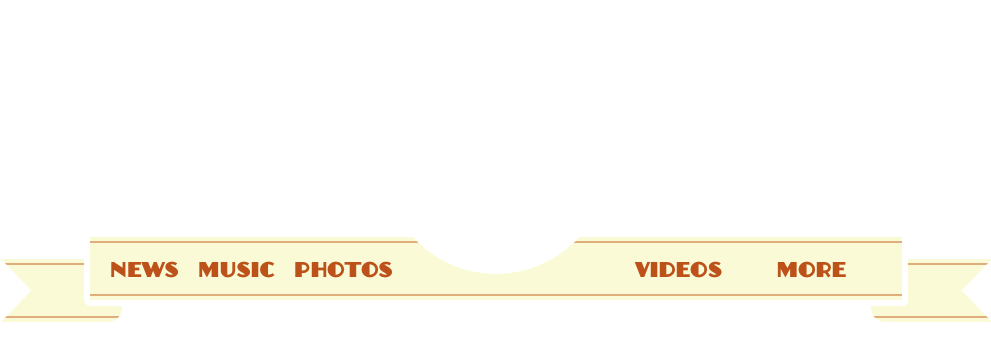
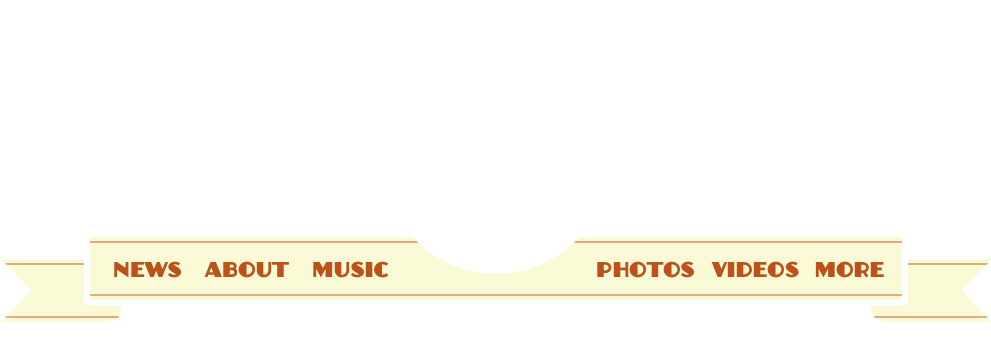
Added about page, tried to fix footer problem for the millionth time, added new menu, and enhanced album view design

Changed region(s): [[0.6054, 0.7107, 0.9082, 0.8034], [0.0908, 0.7107, 0.3935, 0.8034]]

diff --git a/index_resources/main.css b/index_resources/main.css
@@ -55,7 +55,7 @@
 
 /*Main part of menu - the "title"*/
 
-	#Title{
+	#Title {
 		display: block;
 		left: calc(50% - 495.5px);
 		width: 991px;
@@ -67,6 +67,19 @@
 		left: calc(50vw - 319.5px);
 		width: 639px;
 		height: 334px;
+	}
+	
+	#MenuCursor {
+		background-color: rgba(173, 61, 21, 0.2);
+		position: fixed;
+		top: 212px;
+		height: 63px;
+		left: calc(50% - 495.5px);
+		margin-left: 109px;
+		width: 85px;
+		opacity: 0;
+		pointer-events: none;
+		z-index: 99;
 	}
 	
 	#DropDownMenu {
@@ -648,14 +661,16 @@
 	flex-wrap: wrap;
 	width: 100%;
 	height: 160px;
+	margin-bottom: 60px;
+	margin-top: 30px;
 }
 
 .MusicAlbumOnContainer {
-	width: 150px;
-	height: 150px;
-	-webkit-box-shadow: rgba(0,0,0,0.3) 0px 0px 5px;
-	box-shadow: rgba(0,0,0,0.3) 0px 0px 5px;
-	margin: 10px;
+	width: 180px;
+	height: 180px;
+	-webkit-box-shadow: rgba(0,0,0,0.4) 0px 0px 8px;
+	box-shadow: rgba(0,0,0,0.4) 0px 0px 8px;
+	margin: 20px;
 	background: #aaa;
 	background-size: cover;
 	background-repeat: no-repeat;
@@ -667,29 +682,48 @@
 	justify-content: center;
 	flex-wrap: wrap;
 	width: 100%;
+	margin-bottom: 100px;
 }
 
 .MusicAlbumThumbnail {
 	width: 300px;
 	height: 300px;
-	-webkit-box-shadow: rgba(0,0,0,0.3) 0px 0px 5px;
-	box-shadow: rgba(0,0,0,0.3) 0px 0px 5px;
-	margin: 10px;
+	-webkit-box-shadow: rgba(0,0,0,0.4) 0px 0px 8px;
+	box-shadow: rgba(0,0,0,0.4) 0px 0px 8px;
+	margin: 30px;
+	margin-bottom: 30px;
 	background: #aaa;
 	background-size: cover;
 	background-repeat: no-repeat;
 	background-position: center center;
 }
 
+.MusicAlbumTable {
+	border-collapse: collapse;
+	border-spacing: 0;
+	margin-top: 30px;
+}
+
 .MusicAlbumTr {
 	border-bottom: solid 2px #fff;
+	padding: 10px;
 	color: white;
+	font-family: Helvetica, sans-serif;
+}
+
+.MusicAlbumTd {
+	border-bottom: solid 2px #fff;
+	padding: 10px;
+	color: white;
+	font-family: Helvetica, sans-serif;
 }
 
 .MusicAlbumTrSelected {	
 	border-bottom: solid 2px #fff;
+	padding: 10px;
 	color: white;
 	background-color: rgb(173, 61, 21);
+	font-family: Helvetica, sans-serif;
 }
 
 .MusicAlbumTr Button {
@@ -710,6 +744,16 @@
 	position: absolute;
 	right: 0px;
 	bottom: 0px;
+}
+
+#Whitespace-bottom {
+	position: absolute;
+	top: 500px;
+	pointer-events: none;
+	background-color: rgba(0,0,0,0);
+	height: 200px;
+	left: 0px;
+	width: 100%;
 }
 
 @media only screen and (max-width: 991px) {

diff --git a/index_resources/main.js b/index_resources/main.js
@@ -17,6 +17,7 @@ Sitemap = undefined;
 
 didScroll = false;
 ScrollRefPoint = null;
+pageheight = undefined;
 
 //May become deprecated
 function SetUIVariables()
@@ -123,6 +124,7 @@ function HeadLine(imgsrc, msg, url, type)
 		this.Obj.appendChild(this.Thumbnail);
 		
 		this.Playlist = document.createElement("table");
+		this.Playlist.className = "MusicAlbumTable";
 		this.Obj.appendChild(this.Playlist);
 		this.PlaylistSongs = new Array();
 		
@@ -134,12 +136,14 @@ function HeadLine(imgsrc, msg, url, type)
 				ThisTR.className = "MusicAlbumTr";
 				
 				var PlayTD = document.createElement("td");
+				PlayTD.className = "MusicAlbumTd";
 				ThisTR.appendChild(PlayTD);
 				var PlayPauseLabel = document.createElement("i");
 				PlayPauseLabel.className = "fa fa-play";
 				PlayTD.appendChild(PlayPauseLabel);
 				
 				var NameTD = document.createElement("td");
+				NameTD.className = "MusicAlbumTd";
 				ThisTR.appendChild(NameTD);
 				NameTD.innerText = response[i].Name;
 				that.PlaylistSongs.push({TR: ThisTR, Status: PlayPauseLabel});
@@ -305,6 +309,14 @@ function OnResize()
     html = document.documentElement;
 	*/
 	document.getElementById(FooterObjectID).style.top = -101;
+	document.getElementById("Whitespace-bottom").style.top = 0;
+	if(pageheight == undefined) {
+		pageheight = Math.max(document.body.scrollHeight, document.body.offsetHeight);
+		document.getElementById("Whitespace-bottom").style.top = pageheight;
+	}
+	else {
+		document.getElementById("Whitespace-bottom").style.top = pageheight - 200;
+	}
 	pageheight = Math.max(document.body.scrollHeight, document.body.offsetHeight);
     document.getElementById(FooterObjectID).style.top = pageheight - 101;
 }
@@ -584,21 +596,21 @@ window.onhashchange = GoHash = function() {
 			OurTitle.src = "index_resources/slice-1a.png";
 			document.getElementById("Mobile-Menu-Item1").classList.add("Mobile-Menu-Item-Active");
 			break;
-		case "music":
+		case "about":
 			OurTitle.src = "index_resources/slice-1b.png";
 			document.getElementById("Mobile-Menu-Item2").classList.add("Mobile-Menu-Item-Active");
 			break;
-		case "photos":
+		case "music":
 			OurTitle.src = "index_resources/slice-1c.png";
+			document.getElementById("Mobile-Menu-Item2").classList.add("Mobile-Menu-Item-Active");
+			break;
+		case "photos":
+			OurTitle.src = "index_resources/slice-1d.png";
 			document.getElementById("Mobile-Menu-Item3").classList.add("Mobile-Menu-Item-Active");
 			break;
 		case "videos":
-			OurTitle.src = "index_resources/slice-1d.png";
+			OurTitle.src = "index_resources/slice-1e.png";
 			document.getElementById("Mobile-Menu-Item4").classList.add("Mobile-Menu-Item-Active");
-			break;
-		case "uartist":
-			OurTitle.src = "index_resources/slice-1.png";
-			document.getElementById("DropDown-Menu-Item1").classList.add("DropDown-Menu-Item-Active");
 			break;
 		default:
 			OurTitle.src = "index_resources/slice-1.png";

diff --git a/index.html b/index.html
@@ -59,12 +59,27 @@
 			<div class="pseudo-hidden" id="CompactMenuModal" onclick="CloseCompactMenu()"></div>
 			
 			<map name="menumap">
+				<script>
+					function MenuMouseOver(A,B) {
+						var OurCursor = document.getElementById("MenuCursor");
+						OurCursor.style.opacity = 1;
+						OurCursor.style.marginLeft = A;
+						OurCursor.style.width = B - A;
+					}
+
+					function MenuMouseOut() {
+						var OurCursor = document.getElementById("MenuCursor");
+						OurCursor.style.opacity = 0;
+					}
+				</script>
+				<div id="MenuCursor"></div>
 				<area shape="circle" coords="495,160,106" href="#home" alt="Home!">
-				<area shape="rect" coords="105,240,192,300" href="#news" alt="Check what's new!">
-				<area shape="rect" coords="193,240,288,300" href="#music" alt="Amazing songs for your enjoyment!">
-				<area shape="rect" coords="289,240,406,300" href="#photos" alt="Check my pics!">
-				<area shape="rect" coords="629,240,736,300" href="#videos" alt="Watch amazing videos!">
-				<area shape="rect" coords="771,240,860,300" onclick="ShowDropDownMenu()" alt="Much more!">
+				<area shape="rect" onmouseover="MenuMouseOver(109, 186)" onmouseout="MenuMouseOut()" coords="109,240,186,300" href="#news" alt="Check what's new!">
+				<area shape="rect" onmouseover="MenuMouseOver(200, 294)" onmouseout="MenuMouseOut()" coords="200,240,294,300" href="#about" alt="About me!">
+				<area shape="rect" onmouseover="MenuMouseOver(308, 393)" onmouseout="MenuMouseOut()" coords="308,240,393,300" href="#music" alt="Amazing songs for your enjoyment!">
+				<area shape="rect" onmouseover="MenuMouseOver(592, 699)" onmouseout="MenuMouseOut()" coords="592,240,699,300" href="#photos" alt="Check my pics!">
+				<area shape="rect" onmouseover="MenuMouseOver(707, 803)" onmouseout="MenuMouseOut()" coords="707,240,803,300" href="#videos" alt="Watch amazing videos!">
+				<area shape="rect" onmouseover="MenuMouseOver(811, 889)" onmouseout="MenuMouseOut()" coords="811,240,889,300" onclick="ShowDropDownMenu()" style="cursor:pointer" alt="Much more!">
 			</map>
 			<map name="mobilemenumap">
 				<area shape="circle" coords="320, 167, 106" href="index.html" title="Home!">
@@ -92,7 +107,7 @@
 		
 		<article id="LeArticle">
 		</article>
-
+		
 		<img src="index_resources/Slice-4.png" id="footer" usemap="#footermap">
 
 		<map name="footermap">
@@ -132,6 +147,8 @@
 			</div>
 			<img id="MusicBarCloseButton" src="index_resources/close_button.png" onclick="UnloadMusicBar()">
 		</div>
-
+		
+		<div id="Whitespace-bottom"></div> 
+		
 	</body>
 </html>
